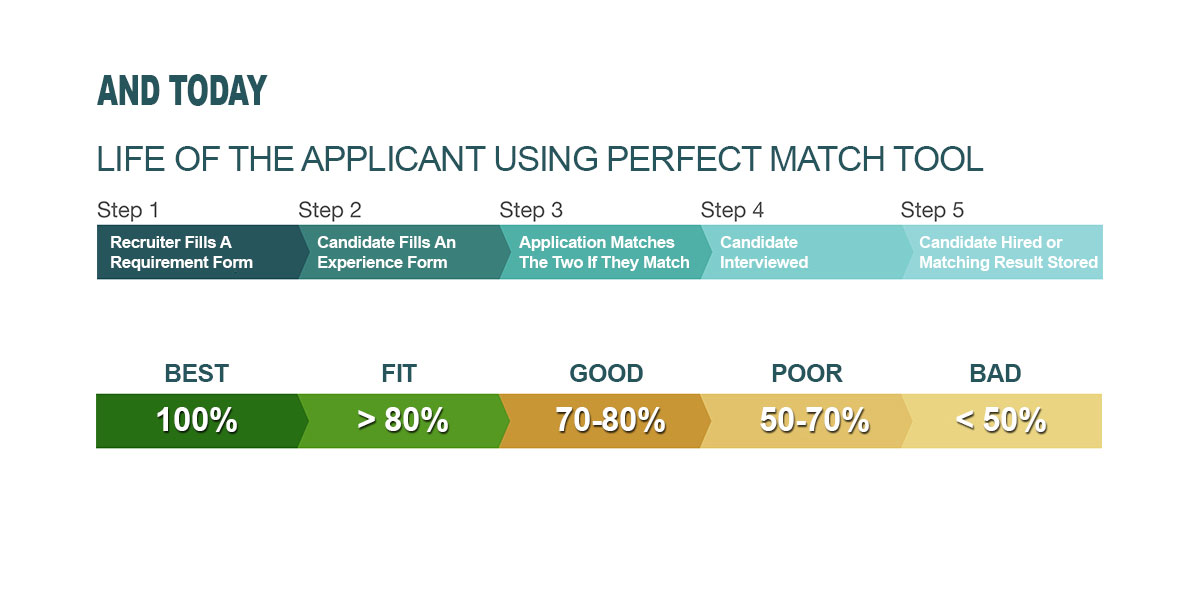
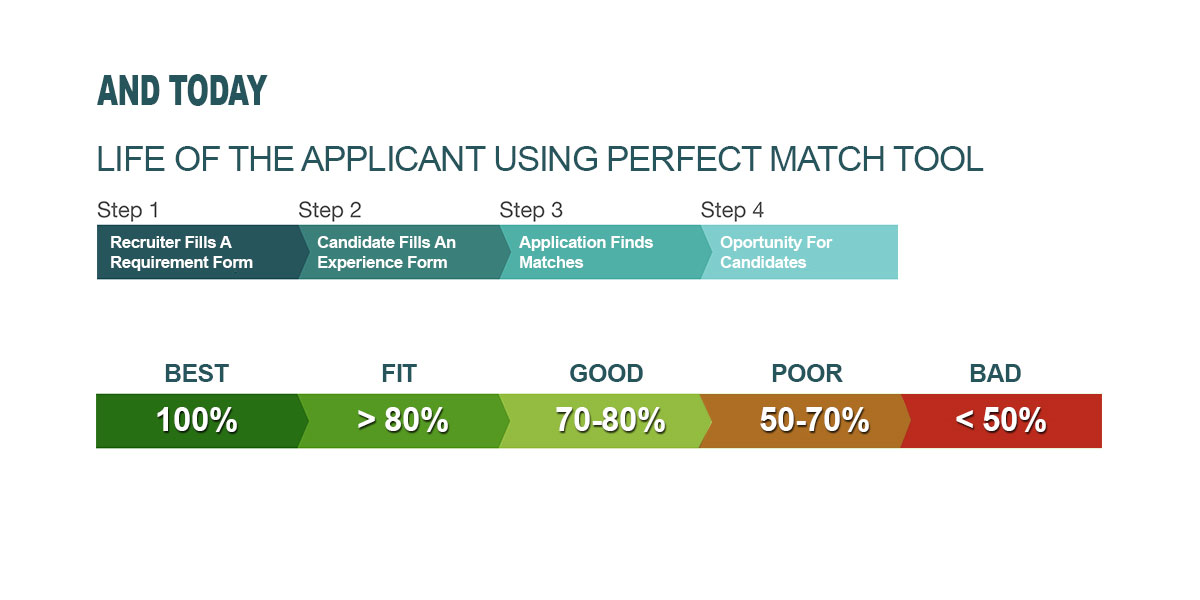
Added matching functionality for candidate as well.

Changed region(s): [[0.4008, 0.63, 0.925, 0.75], [0.74, 0.33, 0.925, 0.48], [0.4317, 0.39, 0.7092, 0.45]]

diff --git a/Final_Project_HR_Web_App/src/main/java/ro/sit/hrapp/dao/db/JDBCTemplateCandidateJobDescriptionDAO.java b/Final_Project_HR_Web_App/src/main/java/ro/sit/hrapp/dao/db/JDBCTemplateCandidateJobDescriptionDAO.java
@@ -11,11 +11,13 @@ package ro.sit.hrapp.dao.db;
 
 import java.sql.ResultSet;
 import java.sql.SQLException;
+import java.util.ArrayList;
 import java.util.Collection;
 import java.util.List;
 
 import javax.sql.DataSource;
 
+import org.springframework.beans.factory.annotation.Autowired;
 import org.springframework.jdbc.core.JdbcTemplate;
 import org.springframework.jdbc.core.RowMapper;
 
@@ -100,12 +102,98 @@ public class JDBCTemplateCandidateJobDescriptionDAO implements JobDescriptionDAO
 
 	}
 
-	/* (non-Javadoc)
-	 * @see ro.sit.hrapp.dao.JobDescriptionDAO#findMatches()
-	 */
+
+	@Autowired
+	DataSource dataSource;
 	@Override
+	/**
+	 * Finds matching candidates
+	 */
 	public List<JobDescription> findMatches(Long id) {
-		return null;
+
+
+		JdbcTemplate companyJdbcTemplate = new JdbcTemplate(dataSource);
+
+		String companyListSQL = "select * from company_skills";
+		List<JobDescription> companySkillList = companyJdbcTemplate.query(companyListSQL, mapJD());
+
+		String candidateListSQL = "select * from candidate_skills where candidate_skill_id=?";
+		List<JobDescription> candidateSkillList = this.jdbcTemplate.query(candidateListSQL, new Long[] { id }, mapJD());
+		
+		List<JobDescription> result = new ArrayList<>();
+
+		for (int i = 0; i < candidateSkillList.size(); i++) {
+			for (int j = 0; j < companySkillList.size(); j++) {
+				
+				float matchPercentage = 0f;
+				
+				int i1 = Integer.parseInt(candidateSkillList.get(i).getYearOfExperience().substring(2));
+				int i2 = Integer.parseInt(companySkillList.get(i).getYearOfExperience().substring(2));
+				
+				/*
+				 * company has the same location as the candidate?
+				 */
+				if (candidateSkillList.get(i).getLocation().equals(companySkillList.get(j).getLocation())) {
+					matchPercentage += 20;
+					/*
+					 * company years of experience are matched?
+					 */
+					if (i1 >= i2) {
+						matchPercentage += 20;
+						/*
+						 * the job position searched by the company is the same as the candidates?
+						 */
+						if (candidateSkillList.get(i).getCurrentJobTitle().equals(companySkillList.get(j).getCurrentJobTitle())) {
+							matchPercentage += 20;
+							/*
+							 * getPersonalSkills gets a string of skills separated by commas
+							 */
+							if ((candidateSkillList.get(i).getPersonalSkills().length() >= companySkillList.get(j).getPersonalSkills().length()) ||
+								(candidateSkillList.get(i).getPersonalSkills().length() <= companySkillList.get(j).getPersonalSkills().length())) {
+								String [] personalSkills = companySkillList.get(j).getPersonalSkills().split(",");
+								matchPercentage += ((20 / 3) * personalSkills.length);
+								/*
+								 * getProfessionalSkills gets a string of skills separated by commas
+								 */
+								if ((candidateSkillList.get(i).getProfessionalSkills().length() >= companySkillList.get(j).getProfessionalSkills().length()) ||
+									(candidateSkillList.get(i).getProfessionalSkills().length() <= companySkillList.get(j).getProfessionalSkills().length())) {
+									String [] professionalSkills = companySkillList.get(j).getProfessionalSkills().split(",");
+									matchPercentage += ((20 / 3) * professionalSkills.length);
+									/*
+									 * If matching percentage is over 70, add to result
+									 */
+									if (matchPercentage > 70f) {
+										result.add(companySkillList.get(j));
+									}
+								}
+							}
+						}
+					}
+				}
+			}
+		}
+		
+		return result;
+	}
+
+	/**
+	 * @return
+	 */
+	private RowMapper<JobDescription> mapJD() {
+		return new RowMapper<JobDescription>() {
+			@Override
+			public JobDescription mapRow(ResultSet rs, int rowNum) throws SQLException {
+				JobDescription jobDescription = new JobDescription();
+				jobDescription.setUserName(rs.getString("username"));
+				jobDescription.setCurrentJobTitle(rs.getString("job_title"));
+				jobDescription.setYearOfExperience(rs.getString("years_experience"));
+				jobDescription.setLocation(rs.getString("location"));
+				jobDescription.setPersonalSkills(rs.getString("personal_skill"));
+				jobDescription.setProfessionalSkills(rs.getString("professional_skill"));
+				return jobDescription;
+			}
+
+		};
 	}
 
 }

diff --git a/Final_Project_HR_Web_App/src/main/java/ro/sit/hrapp/dao/db/JDBCTemplateCompanyJobDescriptionDAO.java b/Final_Project_HR_Web_App/src/main/java/ro/sit/hrapp/dao/db/JDBCTemplateCompanyJobDescriptionDAO.java
@@ -102,9 +102,6 @@ public class JDBCTemplateCompanyJobDescriptionDAO implements JobDescriptionDAO {
 
 	}
 
-	// See if you can do something like this.
-	// Would be cool if it worked
-
 	@Autowired
 	DataSource dataSource;
 	@Override
@@ -117,8 +114,7 @@ public class JDBCTemplateCompanyJobDescriptionDAO implements JobDescriptionDAO {
 		JdbcTemplate companyJdbcTemplate = new JdbcTemplate(dataSource);
 
 		String companyListSQL = "select * from company_skills where company_skill_id=?";
-		List<JobDescription> companySkillList;
-		companySkillList = companyJdbcTemplate.query(companyListSQL, new Long[] { id }, mapJD());
+		List<JobDescription> companySkillList = companyJdbcTemplate.query(companyListSQL, new Long[] { id }, mapJD());
 
 		String candidateListSQL = "select * from candidate_skills";
 		List<JobDescription> candidateSkillList = this.jdbcTemplate.query(candidateListSQL, mapJD());
@@ -133,21 +129,38 @@ public class JDBCTemplateCompanyJobDescriptionDAO implements JobDescriptionDAO {
 				int i1 = Integer.parseInt(companySkillList.get(i).getYearOfExperience().substring(2));
 				int i2 = Integer.parseInt(candidateSkillList.get(i).getYearOfExperience().substring(2));
 				
+				/*
+				 * company has the same location as the candidate?
+				 */
 				if (companySkillList.get(i).getLocation().equals(candidateSkillList.get(j).getLocation())) {
 					matchPercentage += 20;
+					/*
+					 * company years of experience are matched?
+					 */
 					if (i1 <= i2) {
 						matchPercentage += 20;
+						/*
+						 * the job position searched by the company is the same as the candidates?
+						 */
 						if (companySkillList.get(i).getCurrentJobTitle().equals(candidateSkillList.get(j).getCurrentJobTitle())) {
 							matchPercentage += 20;
+							/*
+							 * getPersonalSkills gets a string of skills separated by commas
+							 */
 							if ((companySkillList.get(i).getPersonalSkills().length() >= candidateSkillList.get(j).getPersonalSkills().length()) ||
 								(companySkillList.get(i).getPersonalSkills().length() <= candidateSkillList.get(j).getPersonalSkills().length())) {
 								String [] personalSkills = candidateSkillList.get(j).getPersonalSkills().split(",");
 								matchPercentage += ((20 / 3) * personalSkills.length);
+								/*
+								 * getProfessionalSkills gets a string of skills separated by commas
+								 */
 								if ((companySkillList.get(i).getProfessionalSkills().length() >= candidateSkillList.get(j).getProfessionalSkills().length()) ||
 									(companySkillList.get(i).getProfessionalSkills().length() <= candidateSkillList.get(j).getProfessionalSkills().length())) {
 									String [] professionalSkills = candidateSkillList.get(j).getProfessionalSkills().split(",");
 									matchPercentage += ((20 / 3) * professionalSkills.length);
-									
+									/*
+									 * If matching percentage is over 70, add to result
+									 */
 									if (matchPercentage > 70f) {
 										result.add(candidateSkillList.get(j));
 									}

diff --git a/Final_Project_HR_Web_App/src/main/java/ro/sit/hrapp/cfg/db/ApplicationConfiguration.java b/Final_Project_HR_Web_App/src/main/java/ro/sit/hrapp/cfg/db/ApplicationConfiguration.java
@@ -34,42 +34,42 @@ import ro.sit.hrapp.dao.db.JDBCTemplateCandidateJobDescriptionDAO;
 @Configuration
 public class ApplicationConfiguration {
 	
-//	@Bean
-//	public DataSource dataSource() {
-//		BasicDataSource dataSource = new BasicDataSource();
-//		dataSource.setDriverClassName("org.postgresql.Driver");
-//		
-//
-//		String url = new StringBuilder()
-//				.append("jdbc:")
-//				.append("postgresql")
-//				.append("://")
-//				.append("127.0.0.1")
-//				.append(":")
-//				.append("5432")
-//				.append("/")
-//				.append("webapp").toString();
-//		
-//		dataSource.setUrl(url);
-//		dataSource.setUsername("postgres");
-//		dataSource.setPassword("password");
-//		return dataSource;
-//	}
+	@Bean
+	public DataSource dataSource() {
+		BasicDataSource dataSource = new BasicDataSource();
+		dataSource.setDriverClassName("org.postgresql.Driver");
+		
+
+		String url = new StringBuilder()
+				.append("jdbc:")
+				.append("postgresql")
+				.append("://")
+				.append("127.0.0.1")
+				.append(":")
+				.append("5432")
+				.append("/")
+				.append("webapp").toString();
+		
+		dataSource.setUrl(url);
+		dataSource.setUsername("postgres");
+		dataSource.setPassword("password");
+		return dataSource;
+	}
 
 	//Config for HEROKU DB
-    @Bean
-    public BasicDataSource dataSource() {
-        String dbUrl = System.getenv("JDBC_DATABASE_URL");
-        String username = System.getenv("JDBC_DATABASE_USERNAME");
-        String password = System.getenv("JDBC_DATABASE_PASSWORD");
-
-        BasicDataSource basicDataSource = new BasicDataSource();
-        basicDataSource.setUrl(dbUrl);
-        basicDataSource.setUsername(username);
-        basicDataSource.setPassword(password);
-
-        return basicDataSource;
-    }
+//    @Bean
+//    public BasicDataSource dataSource() {
+//        String dbUrl = System.getenv("JDBC_DATABASE_URL");
+//        String username = System.getenv("JDBC_DATABASE_USERNAME");
+//        String password = System.getenv("JDBC_DATABASE_PASSWORD");
+//
+//        BasicDataSource basicDataSource = new BasicDataSource();
+//        basicDataSource.setUrl(dbUrl);
+//        basicDataSource.setUsername(username);
+//        basicDataSource.setPassword(password);
+//
+//        return basicDataSource;
+//    }
 	
 	@Bean
 	public CandidateDAO candidateDAO() {

diff --git a/Final_Project_HR_Web_App/src/main/java/ro/sit/hrapp/web/WebPageController.java b/Final_Project_HR_Web_App/src/main/java/ro/sit/hrapp/web/WebPageController.java
@@ -93,7 +93,8 @@ public class WebPageController {
 	public ModelAndView renderReportsPage (long id) throws Exception{
 		ModelAndView modelAndView = new ModelAndView();
 		modelAndView.addObject("title", "Reports"); 
-		modelAndView.addObject("matches", companyJobDescriptionService.findMatches(id));
+		modelAndView.addObject("candidateMatches", companyJobDescriptionService.findMatches(id));
+		modelAndView.addObject("companyMatches", candidateJobDescriptionService.findMatches(id));
 		modelAndView.addObject("user", getPrincipal());
 		modelAndView.addObject("role", getPrincipalRole());
 		return modelAndView;

diff --git a/Final_Project_HR_Web_App/src/main/java/ro/sit/hrapp/service/CandidateJobDescriptionService.java b/Final_Project_HR_Web_App/src/main/java/ro/sit/hrapp/service/CandidateJobDescriptionService.java
@@ -66,5 +66,14 @@ public class CandidateJobDescriptionService {
 	public void setCandidateJobDescriptionDAO(JobDescriptionDAO candidateJobDescriptionDAO) {
 		this.candidateJobDescriptionDAO = candidateJobDescriptionDAO;
 	}
+
+	/**
+	 * @param id
+	 * @return
+	 */
+	public Object findMatches(long id) {
+		LOGGER.debug("Finding match...");
+		return candidateJobDescriptionDAO.findMatches(id);
+	}
 	
 }
